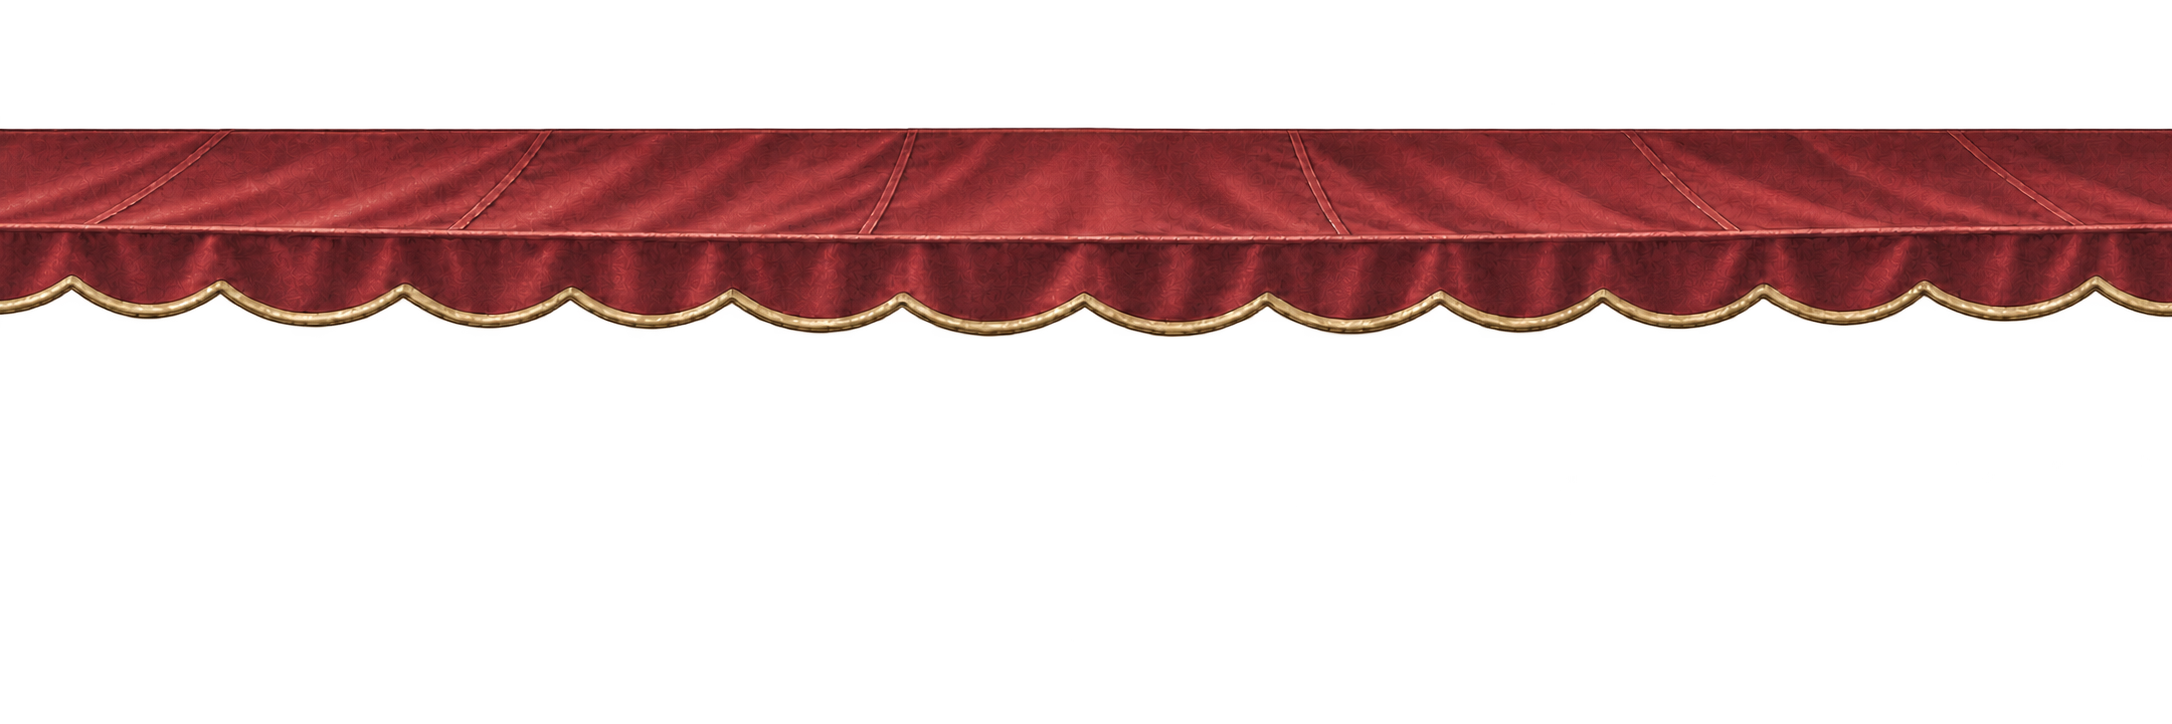
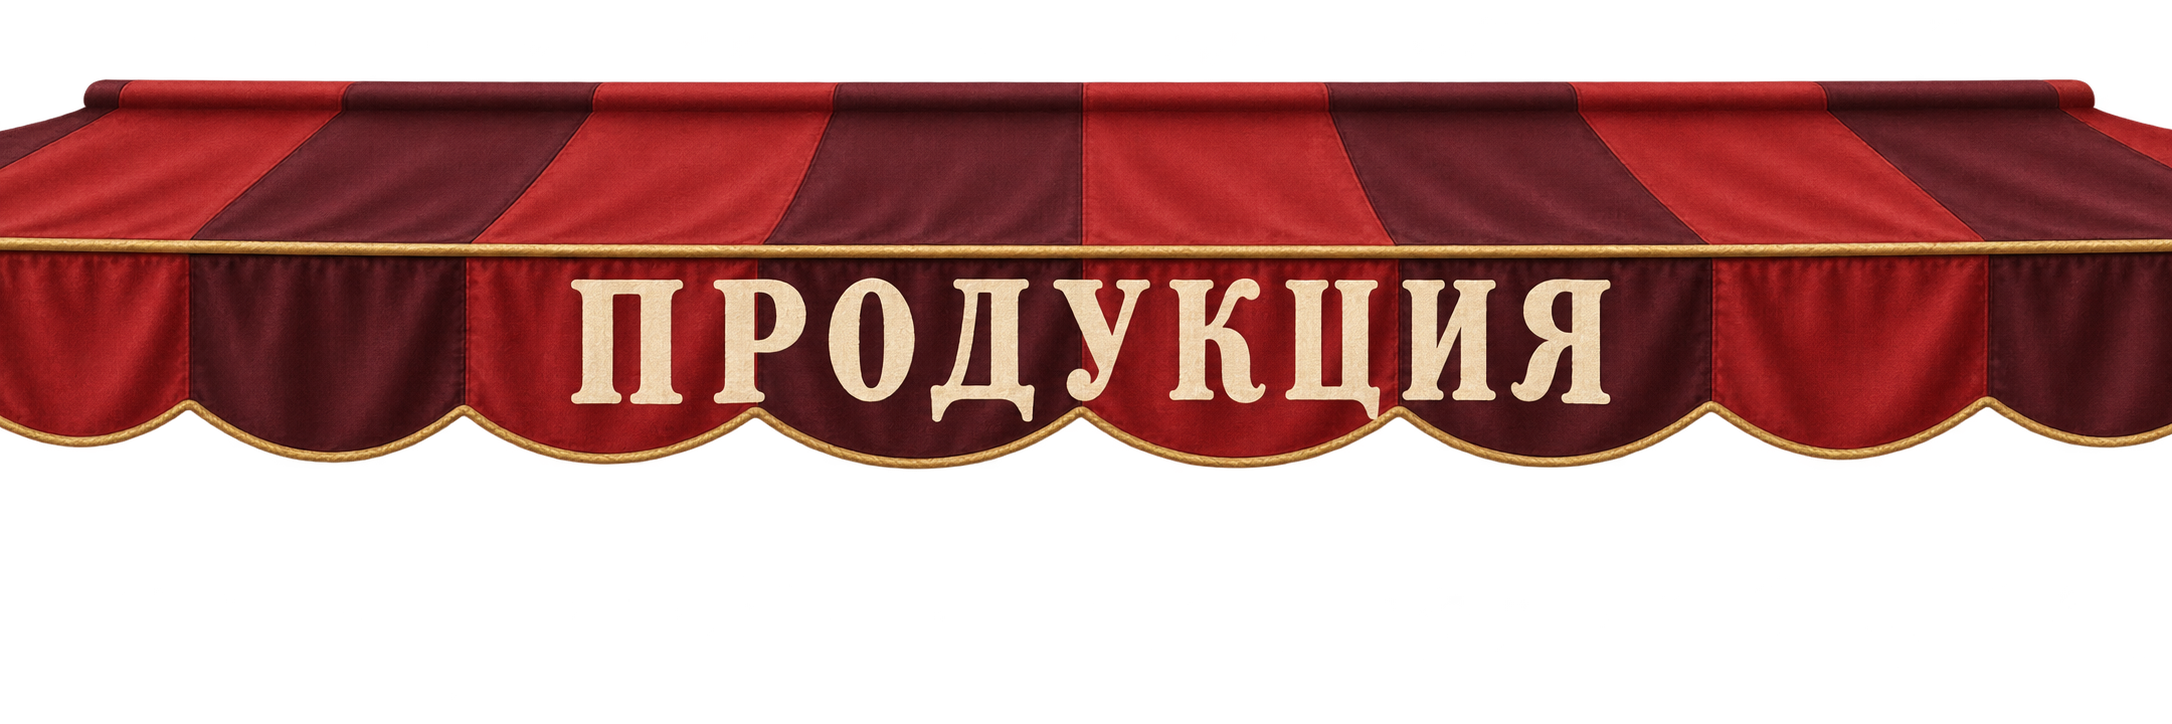
shared: refine homepage layout with updated awning, product slider, and hero visuals

diff --git a/src/pages/home/ProductCard.vue b/src/pages/home/ProductCard.vue
@@ -46,7 +46,7 @@ const dragAngleCss = computed(() => `${props.dragAngle}deg`)
     }"
     :aria-label="product.name"
   >
-    <div class="site-container relative flex flex-col items-center py-8 text-center sm:py-12 nav:grid nav:h-full nav:min-h-0 site-grid nav:grid-rows-2 nav:text-left">
+    <div class="site-container relative flex flex-col items-center py-6 text-center sm:py-8 nav:grid nav:h-full nav:min-h-0 site-grid nav:grid-rows-2 nav:text-left">
       <div class="product-copy relative z-0 w-full max-w-md nav:col-span-4 nav:row-span-2 nav:max-w-none nav:self-center">
         <h3 class="font-display text-product-title text-surface uppercase">
           {{ product.name }}
@@ -75,7 +75,7 @@ const dragAngleCss = computed(() => `${props.dragAngle}deg`)
 
       <div class="relative -top-4 order-2 mt-8 flex w-full items-center justify-center gap-2 nav:static nav:top-auto nav:contents">
         <button
-          class="group shrink-0 rounded-full focus-visible:outline-4 focus-visible:outline-offset-4 focus-visible:outline-brand nav:hidden"
+          class="product-copy group shrink-0 rounded-full focus-visible:outline-4 focus-visible:outline-offset-4 focus-visible:outline-brand nav:hidden"
           type="button"
           aria-label="Предыдущий напиток"
           :tabindex="active ? 0 : -1"
@@ -85,7 +85,7 @@ const dragAngleCss = computed(() => `${props.dragAngle}deg`)
         </button>
 
         <a
-          class="product-interactive product-visual relative z-1 min-w-0 max-w-96 flex-1 aspect-square focus-visible:outline-4 focus-visible:outline-brand sm:max-w-112 nav:absolute nav:bottom-3 nav:left-1/2 nav:size-auto nav:h-11/12 nav:max-h-144 nav:max-w-none nav:aspect-square nav:flex-none nav:-translate-x-1/2"
+          class="product-interactive product-visual relative z-1 min-w-0 max-w-96 flex-1 aspect-square focus-visible:outline-4 focus-visible:outline-brand sm:max-w-112 nav:absolute nav:-bottom-1 nav:left-1/2 nav:size-auto nav:h-11/12 nav:max-h-144 nav:max-w-none nav:aspect-square nav:flex-none nav:-translate-x-1/2"
           draggable="false"
           :href="product.href"
           :tabindex="active ? 0 : -1"
@@ -95,7 +95,7 @@ const dragAngleCss = computed(() => `${props.dragAngle}deg`)
         </a>
 
         <button
-          class="group shrink-0 rounded-full focus-visible:outline-4 focus-visible:outline-offset-4 focus-visible:outline-brand nav:hidden"
+          class="product-copy group shrink-0 rounded-full focus-visible:outline-4 focus-visible:outline-offset-4 focus-visible:outline-brand nav:hidden"
           type="button"
           aria-label="Следующий напиток"
           :tabindex="active ? 0 : -1"

diff --git a/src/pages/home/HomeProductsSection.vue b/src/pages/home/HomeProductsSection.vue
@@ -1,7 +1,6 @@
 <script setup>
 import { sitePath } from '../../utils/site-path'
 import { computed, onBeforeUnmount, onMounted, ref, watch } from 'vue'
-import CircleArrow from '../../components/CircleArrow.vue'
 import ProductCard from './ProductCard.vue'
 import { productSliderRenders } from '#product-slider-renders'
 import { catalogCategories } from '../../data/catalog'
@@ -216,10 +215,10 @@ onBeforeUnmount(() => {
       <span class="absolute inset-0 bg-black/75" />
     </div>
 
-    <div class="site-container relative z-2 shrink-0 pt-20 sm:pt-24 wide:pt-40">
-      <div class="grid items-end gap-6 pb-8 wide:grid-cols-3 wide:gap-12 wide:pb-10">
-        <h2 id="products-title" class="min-w-0 font-display text-h2 text-center text-surface uppercase nav:text-left wide:col-span-2">
-          Продукция
+    <div class="site-container relative z-2 shrink-0 pt-20 sm:pt-24">
+      <div class="grid items-end gap-6 pb-6 wide:grid-cols-3 wide:gap-12">
+        <h2 id="products-title" class="min-h-[1em] min-w-0 font-display text-h2 text-center text-surface uppercase nav:text-left wide:col-span-2">
+          <span class="sr-only">Продукция</span>
         </h2>
 
       </div>
@@ -265,17 +264,8 @@ onBeforeUnmount(() => {
 
       <span class="sr-only" aria-live="polite">Выбран напиток: {{ products[activeIndex].name }}</span>
 
-      <div class="site-container relative z-2 hidden shrink-0 -translate-y-12 pb-8 nav:block">
-        <div class="flex flex-wrap items-center justify-center gap-3 pt-6">
-          <button
-            class="group rounded-full focus-visible:outline-4 focus-visible:outline-offset-4 focus-visible:outline-brand"
-            type="button"
-            aria-label="Предыдущий напиток"
-            @click="showPrevious"
-          >
-            <CircleArrow direction="left" hover="control" tone="surface" />
-          </button>
-
+      <div class="site-container relative z-2 hidden shrink-0 -translate-y-8 pb-8 nav:block">
+        <div class="flex flex-wrap items-center justify-center gap-3 pt-4">
           <div
             ref="tabList"
             class="hidden flex-wrap items-center justify-center gap-3 nav:flex"
@@ -302,14 +292,6 @@ onBeforeUnmount(() => {
             </button>
           </div>
 
-          <button
-            class="group rounded-full focus-visible:outline-4 focus-visible:outline-offset-4 focus-visible:outline-brand"
-            type="button"
-            aria-label="Следующий напиток"
-            @click="showNext"
-          >
-            <CircleArrow hover="control" tone="surface" />
-          </button>
         </div>
       </div>
     </div>

diff --git a/src/pages/home/HomePage.vue b/src/pages/home/HomePage.vue
@@ -8,14 +8,86 @@ import homeDivider from '../../assets/heroes/home/divider.png?responsive'
 
 <template>
   <HomeHeroSection />
+  <div class="pointer-events-none relative z-10 hidden h-0 sm:block" aria-hidden="true">
+    <div class="home-products-awning absolute inset-x-0 -top-px flex">
+      <div
+        v-for="part in ['left', 'center', 'right']"
+        :key="part"
+        class="home-products-awning-part relative overflow-hidden"
+        :class="`home-products-awning-${part}`"
+      >
+        <img
+          class="absolute top-0 h-full max-w-none"
+          :src="homeDivider.src"
+          :srcset="homeDivider.srcset"
+          sizes="100vw"
+          alt=""
+          decoding="async"
+        >
+      </div>
+    </div>
+  </div>
   <HeroDivider
+    class="home-products-divider sm:hidden"
     natural-height
     :image-url="homeDivider.src"
     :image-srcset="homeDivider.srcset"
-    image-sizes="max(100vw, 412px)"
+    image-sizes="(max-width: 639px) max(130vw, 412px), 100vw"
     fetchpriority="high"
   />
   <HomeProductsSection />
   <HomeAboutSection />
 </template>
+
+<style scoped>
+.home-products-divider :deep(.hero-divider-image) {
+  top: -1px;
+  right: auto;
+  left: 50%;
+  transform: translate(-50%, -11.2%) scaleX(1.12);
+}
+
+.home-products-awning {
+  --awning-height: min(calc(100vw / 3), 50svh);
+  height: var(--awning-height);
+  transform: translateY(-11.2%);
+}
+
+/* Границы центра совпадают со швами нижней полосы на x=465 и x=1712. */
+.home-products-awning-center {
+  --awning-source-start: 465;
+  --awning-source-width: 1247;
+  flex: 0 0 calc(var(--awning-height) * 1247 / 724);
+}
+
+/* Боковые полосы продолжаются от швов к краям, скрывая торцы исходника. */
+.home-products-awning-left,
+.home-products-awning-right {
+  flex: 1 1 0;
+  min-width: 0;
+}
+
+.home-products-awning-left {
+  --awning-source-start: 109;
+  --awning-source-width: 356;
+}
+
+.home-products-awning-right {
+  --awning-source-start: 1712;
+  --awning-source-width: 351;
+}
+
+.home-products-awning-part img {
+  left: calc(-100% * var(--awning-source-start) / var(--awning-source-width));
+  width: calc(100% * 2172 / var(--awning-source-width));
+  object-fit: fill;
+}
+
+@media (width < 40rem) {
+  .home-products-divider :deep(.hero-divider-image) {
+    width: 150%;
+    max-width: none;
+  }
+}
+</style>
 

diff --git a/src/data/product-slider-renders-client.js b/src/data/product-slider-renders-client.js
@@ -4,9 +4,9 @@ import ciderPairShadow from '../assets/home/product-renders/sidr-pair-shadow.web
 import perryPairShadow from '../assets/home/product-renders/puare-pair-shadow.webp?responsive'
 
 export const productSliderRenders = Object.freeze({
-  medovuha: { pair: { ...categoryGlasses.medovuha, slider: {"heightScale":0.8899389432714035,"topOffset":0.8058916492771317,"leftOffset":50.072088398079615,"center":50,"origin":"49.938931162076614% 95.69752738359938%"} }, pairShadow: meadPairShadow },
-  sidr: { pair: { ...categoryGlasses.sidr, slider: {"heightScale":0.8817553949984888,"topOffset":1.33224544324715,"leftOffset":50.072088398079615,"center":50.17482517482518,"origin":"50.11404478620373% 95.98875502159154%"} }, pairShadow: ciderPairShadow },
-  puare: { pair: { ...categoryGlasses.puare, slider: {"heightScale":0.871393900888323,"topOffset":1.8382813903367687,"leftOffset":50.072088398079615,"center":50,"origin":"49.93732408739442% 96.54940959148318%"} }, pairShadow: perryPairShadow },
+  medovuha: { pair: { ...categoryGlasses.medovuha, slider: {"heightScale":0.8009450489442632,"topOffset":9.322387288621796,"leftOffset":50.072088398079615,"center":50,"origin":"49.938931162076614% 95.69752738359938%"} }, pairShadow: meadPairShadow },
+  sidr: { pair: { ...categoryGlasses.sidr, slider: {"heightScale":0.7935798554986399,"topOffset":9.796105703194813,"leftOffset":50.072088398079615,"center":50.17482517482518,"origin":"50.11404478620373% 95.98875502159154%"} }, pairShadow: ciderPairShadow },
+  puare: { pair: { ...categoryGlasses.puare, slider: {"heightScale":0.7842545107994907,"topOffset":10.25153805557547,"leftOffset":50.072088398079615,"center":50,"origin":"49.93732408739442% 96.54940959148318%"} }, pairShadow: perryPairShadow },
 })
 
-export const productRenderFrame = Object.freeze({"width":1833,"height":1243,"heightScale":1.7921175762593038,"topOffset":-52.45976555304147,"center":30.523731587561375,"origins":{"glass":"30.539560145890228% 77.24415821238256%"}})
+export const productRenderFrame = Object.freeze({"width":1833,"height":1243,"heightScale":1.6129058186333733,"topOffset":-38.61670419346495,"center":30.523731587561375,"origins":{"glass":"30.539560145890228% 77.24415821238256%"}})

diff --git a/src/pages/home/HomeHeroSection.vue b/src/pages/home/HomeHeroSection.vue
@@ -17,7 +17,7 @@ const heroLayerLayout = {
   mobile: {
     background: { enabled: true, scale: 1, x: 0, y: 0 },
     middle: { enabled: true, constraints: { horizontal: 'center', vertical: 'bottom' }, scale: 1.5, x: 0, y: -50 },
-    foreground: { enabled: true, constraints: { horizontal: 'center', vertical: 'bottom' }, scale: 1.5, x: -50, y: 0 },
+    foreground: { enabled: true, constraints: { horizontal: 'center', vertical: 'bottom' }, scale: 1.5, x: -50, y: -50 },
   },
   tablet: {
     background: { enabled: true, scale: 1, x: 0, y: 0 },
@@ -125,7 +125,7 @@ onBeforeUnmount(() => {
     class="relative isolate h-svh overflow-hidden bg-brand text-surface"
     aria-labelledby="hero-title"
   >
-    <div class="site-container flex h-full flex-col gap-10 pt-24 pb-16 sm:pt-32 sm:pb-8 wide:pt-36">
+    <div class="site-container flex h-full flex-col gap-10 pt-24 pb-4 sm:pt-32 sm:pb-8 wide:pt-36">
       <h1 id="hero-title" class="home-hero-title absolute top-62 left-0 z-20 w-full -translate-y-full px-4 text-center font-display text-h1 uppercase sm:top-1/2 sm:-translate-y-1/2 sm:px-6" :style="layerEntranceTimings.rise">
         <span class="font-normal">Лапу приложили</span><br>
         к напиткам

diff --git a/docs/version-differences.md b/docs/version-differences.md
@@ -4,4 +4,4 @@
 |---|---|---|
 | Акцентный цвет сайта | Зелёный `#3d5a45`<br>![Цвет оригинала](version-comparison/palette-original.png) | Рыжий `#d9771a`<br>![Цвет клиентской версии](version-comparison/palette-client.png) |
 | Слоган на главной | «Варим с душой»<br>![Слоган оригинала](version-comparison/slogan-original.png) | «Пчелы умрут от зависти»<br>![Слоган клиентской версии](version-comparison/slogan-client.png) |
-| Продукция в слайдере на главной | Банка и бокал; банка начинает движение первой, бокал — с задержкой 100 мс<br>![Слайдер оригинала](version-comparison/slider-original.png) | Только бокал; собственные размер, положение и тень, без отдельного движения банки<br>![Клиентский слайдер](version-comparison/slider-client.png) |
+| Продукция в слайдере на главной | Банка и бокал; банка начинает движение первой, бокал — с задержкой 100 мс<br>![Слайдер оригинала](version-comparison/slider-original.png) | Только бокал; собственный уменьшенный масштаб, положение и тень, без отдельного движения банки<br>![Клиентский слайдер](version-comparison/slider-client.png) |
